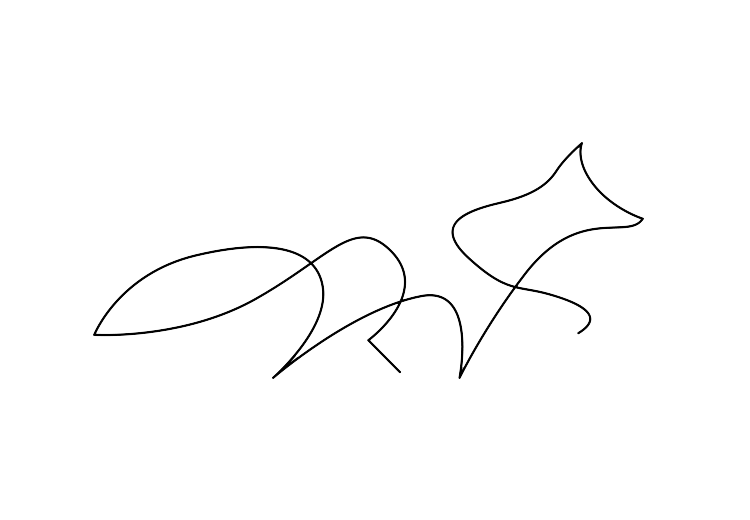
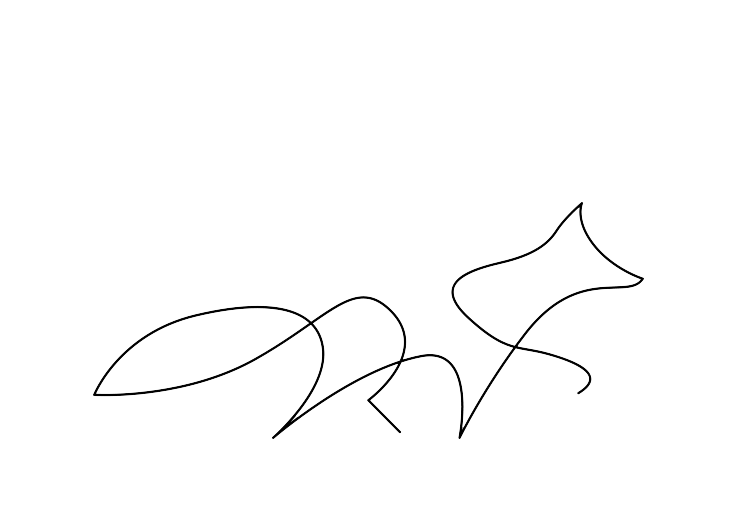
added picture with lines

diff --git a/style.css b/style.css
@@ -78,8 +78,6 @@ h1 {
 .category-img {
   max-height: 100%;
   max-width: 100%;
-  width: auto;
-  height: auto;
   position: absolute;
   top: 0;
   bottom: 0;
@@ -89,25 +87,20 @@ h1 {
 }
 
 #web-player {
-  margin-right: 15px;
-  transition: all 2s;
   max-width: 22%;
+  display: flex;
+  flex-direction: column;
+  margin-right: 15px;
+  justify-content: space-between;
 }
 
 #web-player h5 {
-  margin-top: 10px;
-}
-
-#web-player > .row,
-#player-info img {
-  border-width: thin;
-  border-color: black;
-  border-style: solid;
+  margin-top: 20px;
 }
 
 #web-player > .row {
   padding: 15px;
-  margin-bottom: 10px;
+  margin-bottom: 50px;
 }
 
 #web-player img {
@@ -139,8 +132,12 @@ h1 {
 }
 
 #player-info img {
-  padding: 0px 30px;
-  width: 80%;
+  height: 300px;
+  object-fit: cover;
+
+  border-width: thin;
+  border-color: black;
+  border-style: solid;
 }
 
 #player-info h5 {
@@ -149,6 +146,7 @@ h1 {
 
 #song-info {
   font-style: italic;
+  border: 1px solid lightgrey;
 }
 
 #song-info img {

diff --git a/script.js b/script.js
@@ -71,6 +71,11 @@ function LoadCategories(jsonContent) {
 
   allCategoriesAudios = new Object();
   for (var i = 0; i < CATEGORY_LENGTH; i++) {
+    categoryImages[i].src = categoryContent[i].category_img.replace(
+      ".png",
+      "-line.png"
+    );
+    categoryImages[i].alt = categoryContent[i].category_name;
     categoryLabels[i].innerHTML = categoryContent[i].category_name;
 
     allCategoriesAudios[i] = new Object();
@@ -99,6 +104,8 @@ function SelectCategory(categoryIndex) {
 
     musicPlayer.categoryImage.src =
       categoryContent[currentCategory].category_img;
+    musicPlayer.categoryImage.alt =
+      categoryContent[currentCategory].category_name + " category";
     musicPlayer.categoryName.innerHTML =
       categoryContent[currentCategory].category_name;
     musicPlayer.categoryDescription.innerHTML =

diff --git a/index.html b/index.html
@@ -183,10 +183,7 @@
             </div>
           </div>
         </div>
-        <div
-          class="container d-flex flex-column justify-content-center"
-          id="web-player"
-        >
+        <div class="container" id="web-player">
           <div class="row" id="player-info">
             <img src="" alt="category description" id="player-img" />
             <h5 id="player-name">Category Name</h5>
